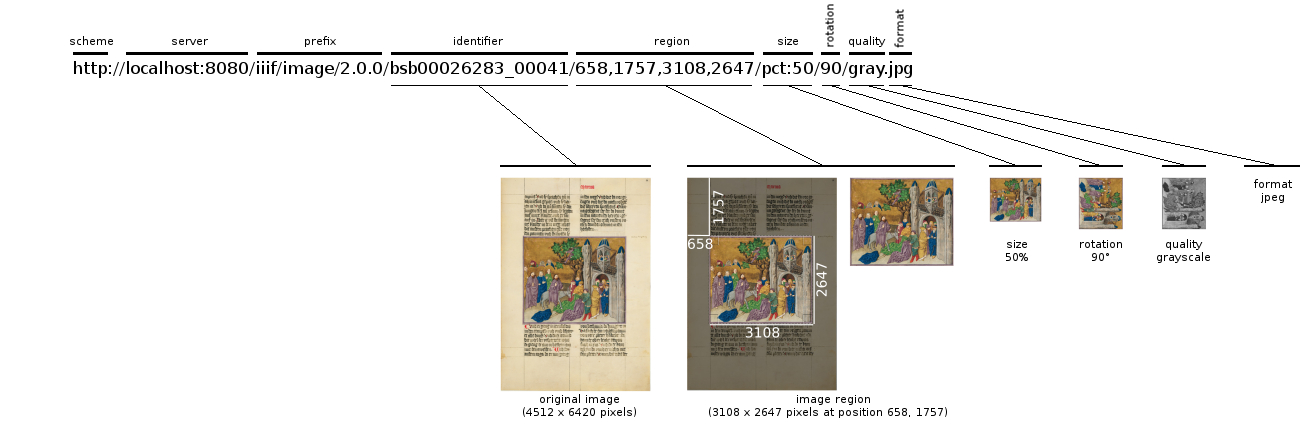
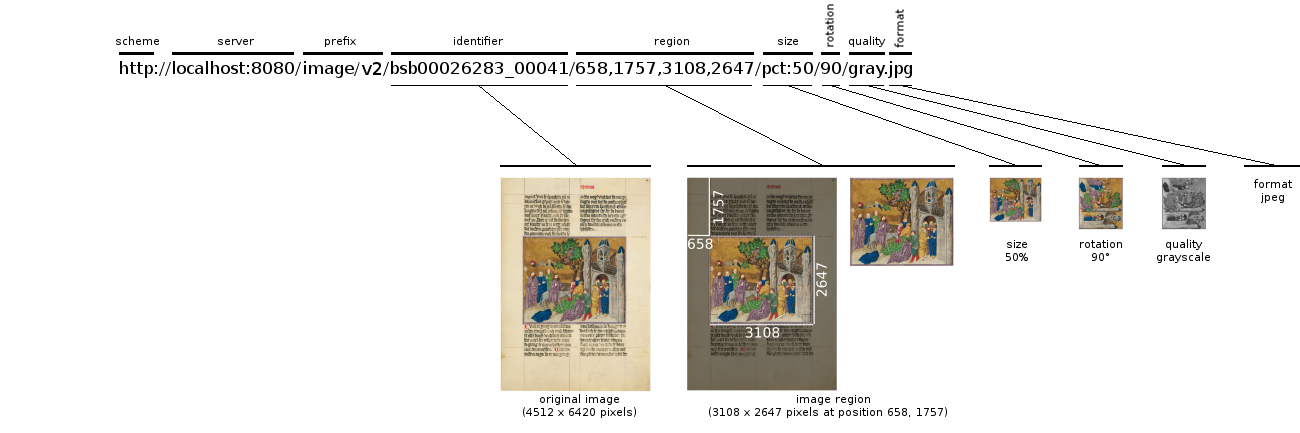
upgraded iiif presentation and image api

Changed region(s): [[0.0615, 0.0901, 0.3077, 0.1801], [0.2462, 0.0901, 0.2769, 0.1201]]

diff --git a/src/main/resources/templates/view_image-api-url.html b/src/main/resources/templates/view_image-api-url.html
@@ -10,7 +10,7 @@
 
       <main>
         <section id="urlbuilder" class="well">
-          http://localhost:8080/iiif/image/2.0.0/bsb00026283_00041/
+          http://localhost:8080/image/v2/bsb00026283_00041/
           <select name="region">
             <option>full</option>
             <option>2500,3000,1024,1024</option>
@@ -45,7 +45,7 @@
           </select>
         </section>
         <section id="image-view">
-          <img id="imgrender" th:src="@{/iiif/image/2.0.0/bsb00026283_00041/full/500,/0/default.jpg}"/>
+          <img id="imgrender" th:src="@{/image/v2/bsb00026283_00041/full/500,/0/default.jpg}"/>
         </section>
         <script defer="true">
           // <![CDATA[
@@ -61,7 +61,7 @@
           }
 
           function  buildIIIFUrl(params) {
-            var URL = "/iiif/image/2.0.0/bsb00026283_00041/" +
+            var URL = "/image/v2/bsb00026283_00041/" +
                     [params.region, params.size, params.rotation, params.color].join('/') +
                     "." + params.format;
             return URL;

diff --git a/src/main/java/de/digitalcollections/iiif/serverdemo/controller/DemoController.java b/src/main/java/de/digitalcollections/iiif/serverdemo/controller/DemoController.java
@@ -31,7 +31,7 @@ public class DemoController {
   @RequestMapping(value = "/demo/{identifier}/view_image.html", method = RequestMethod.GET)
   public String getPreviewPage(@PathVariable String identifier,
           HttpServletRequest request, Model model) {
-    model.addAttribute("infoUrl", "/iiif/image/2.0.0/" + identifier + "/info.json");
+    model.addAttribute("infoUrl", "/image/v2/" + identifier + "/info.json");
     return "view_openseadragon";
   }
 
@@ -46,35 +46,35 @@ public class DemoController {
   @RequestMapping(value = "/demo/{identifier}/view_leaflet-image.html", method = RequestMethod.GET)
   public String getLeafletImageViewerPage(@PathVariable String identifier,
           HttpServletRequest request, Model model) {
-    model.addAttribute("infoUrl", "/iiif/image/2.0.0/" + identifier + "/info.json");
+    model.addAttribute("infoUrl", "/image/v2/" + identifier + "/info.json");
     return "view_leaflet-image";
   }
 
   @RequestMapping(value = "/demo/{identifier}/view_leaflet-presentation.html", method = RequestMethod.GET)
   public String getLeafletManifestViewerPage(@PathVariable String identifier,
           HttpServletRequest request, Model model) {
-    model.addAttribute("manifestId", "/iiif/presentation/2.0.0/" + identifier + "/manifest");
+    model.addAttribute("manifestId", "/presentation/v2/" + identifier + "/manifest");
     return "view_leaflet-presentation";
   }
 
   @RequestMapping(value = "/demo/{identifier}/view_presentation.html", method = RequestMethod.GET)
   public String getMiradorPage(@PathVariable String identifier,
           HttpServletRequest request, Model model) {
-    model.addAttribute("manifestId", "/iiif/presentation/2.0.0/" + identifier + "/manifest");
+    model.addAttribute("manifestId", "/presentation/v2/" + identifier + "/manifest");
     return "view_mirador";
   }
 
   @RequestMapping(value = "/demo/{identifier}/view_universal.html", method = RequestMethod.GET)
   public String getUniversalViewerPage(@PathVariable String identifier,
           HttpServletRequest request, Model model) {
-    model.addAttribute("manifestId", "/iiif/presentation/2.0.0/" + identifier + "/manifest");
+    model.addAttribute("manifestId", "/presentation/v2/" + identifier + "/manifest");
     return "view_universal";
   }
 
   @RequestMapping(value = "/demo/{identifier}/view_diva.html", method = RequestMethod.GET)
   public String getDivaViewerPage(@PathVariable String identifier,
           HttpServletRequest request, Model model) {
-    model.addAttribute("manifestId", "/iiif/presentation/2.0.0/" + identifier + "/manifest");
+    model.addAttribute("manifestId", "/presentation/v2/" + identifier + "/manifest");
     return "view_diva";
   }
 
